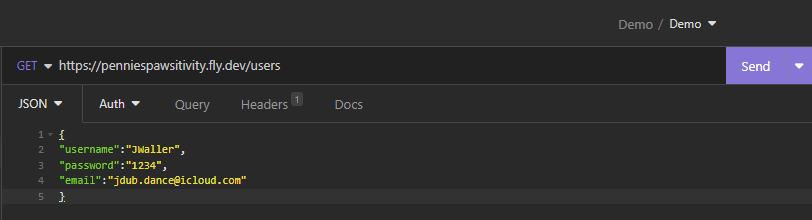
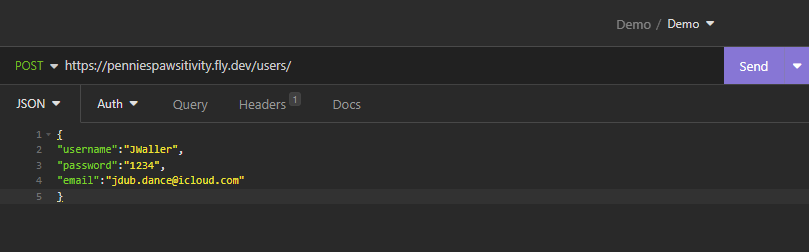
updates to README.md and pledges model

diff --git a/crowdfunding/projects/serializers.py b/crowdfunding/projects/serializers.py
@@ -36,5 +36,6 @@ class PledgeDetailSerializer(ProjectSerializer):
         instance.anonymous = validated_data.get('anonymous', instance.anonymous)
         instance.project = validated_data.get('project', instance.project)
         instance.supporter = validated_data.get('supporter', instance.supporter)
+        instance.owner = validated_data.get('owner', instance.owner)
         instance.save()
         return instance

diff --git a/crowdfunding/projects/models.py b/crowdfunding/projects/models.py
@@ -19,7 +19,7 @@ class Pledge(models.Model):
     comment = models.CharField(max_length=200)
     anonymous = models.BooleanField()
     project = models.ForeignKey(
-        'Project',
+        'Pledge',
         on_delete=models.CASCADE,
         related_name='pledges'
         )

diff --git a/README.md b/README.md
@@ -5,11 +5,11 @@ Welcome to "Pennies for Pawsitivity" – the ultimate crowdfunding platform dedi
 ## Project requirements (Part A)
 - [X] Have a cool name, bonus points if it includes a pun and/or missing vowels.
 - [X] Have a clear target audience.
-- [X] Have user accounts. A user should have at least the following attributes:<br /> 
+- [X] Have user accounts. A user should have at least the following attributes:
     - [X] Username<br /> 
     - [X] Email address<br /> 
     - [x] Password<br />
-- [X] Ability to create a “project” to be crowdfunded which will include at least thefollowing attributes:
+- [X] Ability to create a “project” to be crowdfunded which will include at least the following attributes:
   - [X] Title
   - [X] Owner (a user)
   - [X] Description
@@ -17,7 +17,7 @@ Welcome to "Pennies for Pawsitivity" – the ultimate crowdfunding platform dedi
   - [X] Target amount to fundraise
   - [X] Whether it is currently open to accepting new supporters or not
   - [X] When the project was created
-- [X] Ability to “pledge” to a project. A pledge should include at least the followingattribute
+- [X] Ability to “pledge” to a project. A pledge should include at least the following attribute
   - [X] An amount
   - [X] The project the pledge is for
   - [X] The supporter/user (i.e. who created the pledge)
@@ -37,7 +37,7 @@ Welcome to "Pennies for Pawsitivity" – the ultimate crowdfunding platform dedi
 - [X] A screenshot of Insomnia, demonstrating a token being returned.<br />
 ![image info goes here](screenshots/Token_return.png)
 ### Instructions
-- [X] Step by step instructions for how to register a new user and create a newproject (i.e. endpoints and body data).
+- [X] Step by step instructions for how to register a new user and create a new project (i.e. endpoints and body data).
 #### How to register a new user
 1. From your Insomnia dashboard, create a HTTP Request in the dropdown menu.
 ![New HTTP Request](screenshots/New_HTTP_Request.png)
@@ -47,23 +47,38 @@ Welcome to "Pennies for Pawsitivity" – the ultimate crowdfunding platform dedi
 ![Rename the HTTP Request](screenshots/Rename_HTTP_Request.png)
     <br />
 3. Select the GET method from the dropdown.
-![Select the GET method](screenshots/Select%20the%20GET%20method.png)
+    <br />
+![Select the GET method](screenshots/Select_the_GET_method.png)
+    <br />
 4. Enter "https://penniespawsitivity.fly.dev/users/" in the request URL output.
+    <br />
 ![Enter the request URL output](screenshots/Enter_the_request_URL_output.png)
+    <br />
 5. Select JSON as the </>TEXT.
+    <br />
 ![Select JSON](screenshots/Select_JSON.png)
-6. Input data for the new user. For example:<br />
+    <br />
+6. Input data for the new user, entering a username, password and email. For example:<br />
 {<br />
     "username":"JWaller",<br />
     "password":"1234",<br />
     "email":"jdub.dance@icloud.com"<br />
 }<br />
 ![Data for new user](screenshot/../screenshots/Data_for_new_user.png)
+    <br />
 7. Send the request. The expected output should be a "200 OK" success message, and a preview of the new user's details. This screenshot shows each of these steps successfully executed in Insomnia.
+    <br />
 ![Create a new user](screenshots/Create_a_new_user.png)
 #### How to create a new project
 1. From your Insomnia dashboard, create a HTTP Request in the dropdown menu.
-![New HTTP Request](screenshots/New_HTTP_Request.png)<br />
+![New HTTP Request](screenshots/New_HTTP_Request.png)
+2. Rename the request to something like 'Create a new project'.
+    <br />
+![Rename the HTTP Request](screenshots/Rename_HTTP_Request.png)
+3. Select the POST method from the dropdown.
+    <br />
+![Select the POST method](screenshots/Select_the_POST_method.png)
+4. Enter "https://penniespawsitivity.fly.dev/users/" in the request URL output.
 
 ### Structure
 - [X] Your refined API specification and Database Schema.
